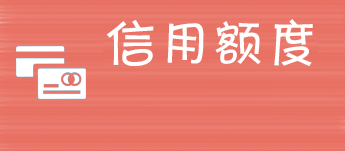
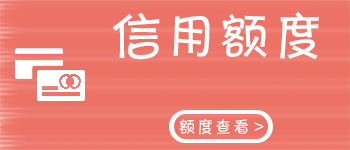
fix images and style

diff --git a/assets/css/style.css b/assets/css/style.css
@@ -690,19 +690,15 @@ body {
 
 .credit .credit-number {
   position: absolute;
-  background-color: #fff;
-  color: #e97466;
-  bottom: 3vw;
-  border-radius: 50px;
+  color: #fff;
+  bottom: 11vw;
   width: 46%;
-  left: 36%;
-  font-size: 10vw;
+  left: 35%;
+  font-size: 12vw;
   line-height: 0.8;
   font-family: 'FZKaTong';
-  padding-bottom: 2vw;
   letter-spacing: 1vw;
   text-align: left;
-  padding-left: 12%;
 }
 
 .footer {
@@ -2795,7 +2791,7 @@ form#request_loan_form {
 
   .credit .credit-number {
     font-size: 102.4px;
-    padding-bottom: 20.48px;
+    bottom: 130px;
   }
 
   .file-block .input-holder .file-input {

diff --git a/index.php b/index.php
@@ -102,8 +102,8 @@ if(checkUserLogin()) {
         <img src="assets/images/credit-banner.png" alt="" />
         <?php
           $paddingLeft = '';
-          if(strlen($userAllData->user->quotaTotal) == 1) $paddingLeft = 'padding-left: 20%;';
-          else if(strlen($userAllData->user->quotaTotal) == 3) $paddingLeft = 'padding-left: 15%;';
+          if(strlen($userAllData->user->quotaTotal) == 1) $paddingLeft = 'padding-left: 22%;';
+          else if(strlen($userAllData->user->quotaTotal) == 3) $paddingLeft = 'padding-left: 16%;';
           else $paddingLeft = 'padding-left: 12%;';
         ?>
         <span class="credit-number" style="<?= $paddingLeft ?>"><?= $userAllData->user->quotaTotal ?></span>
